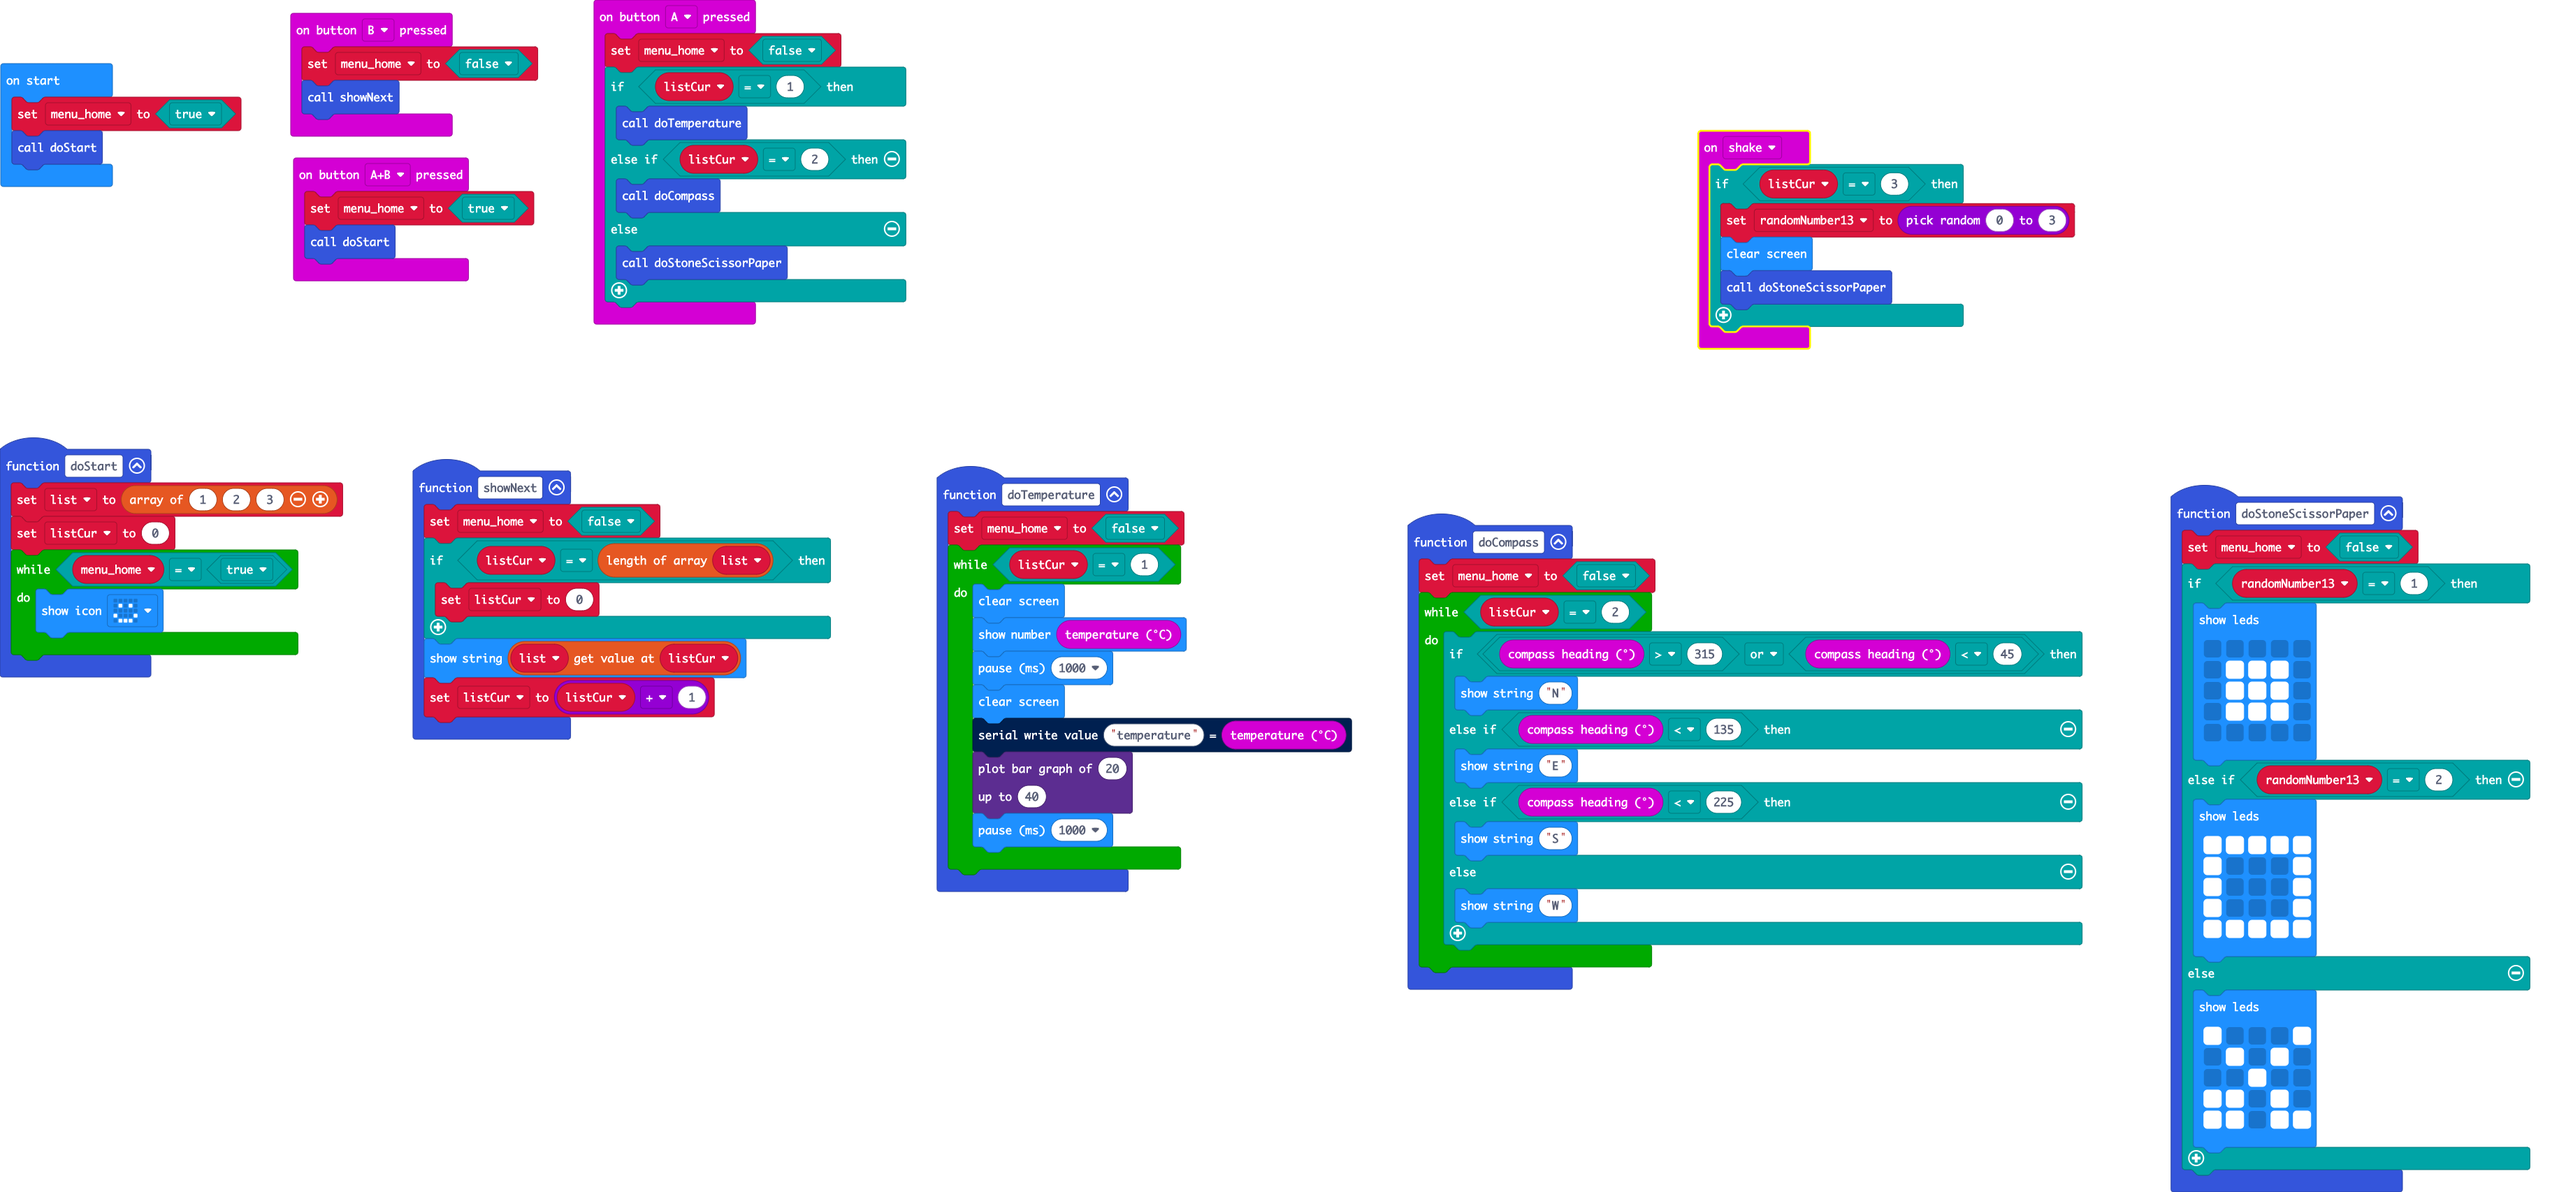
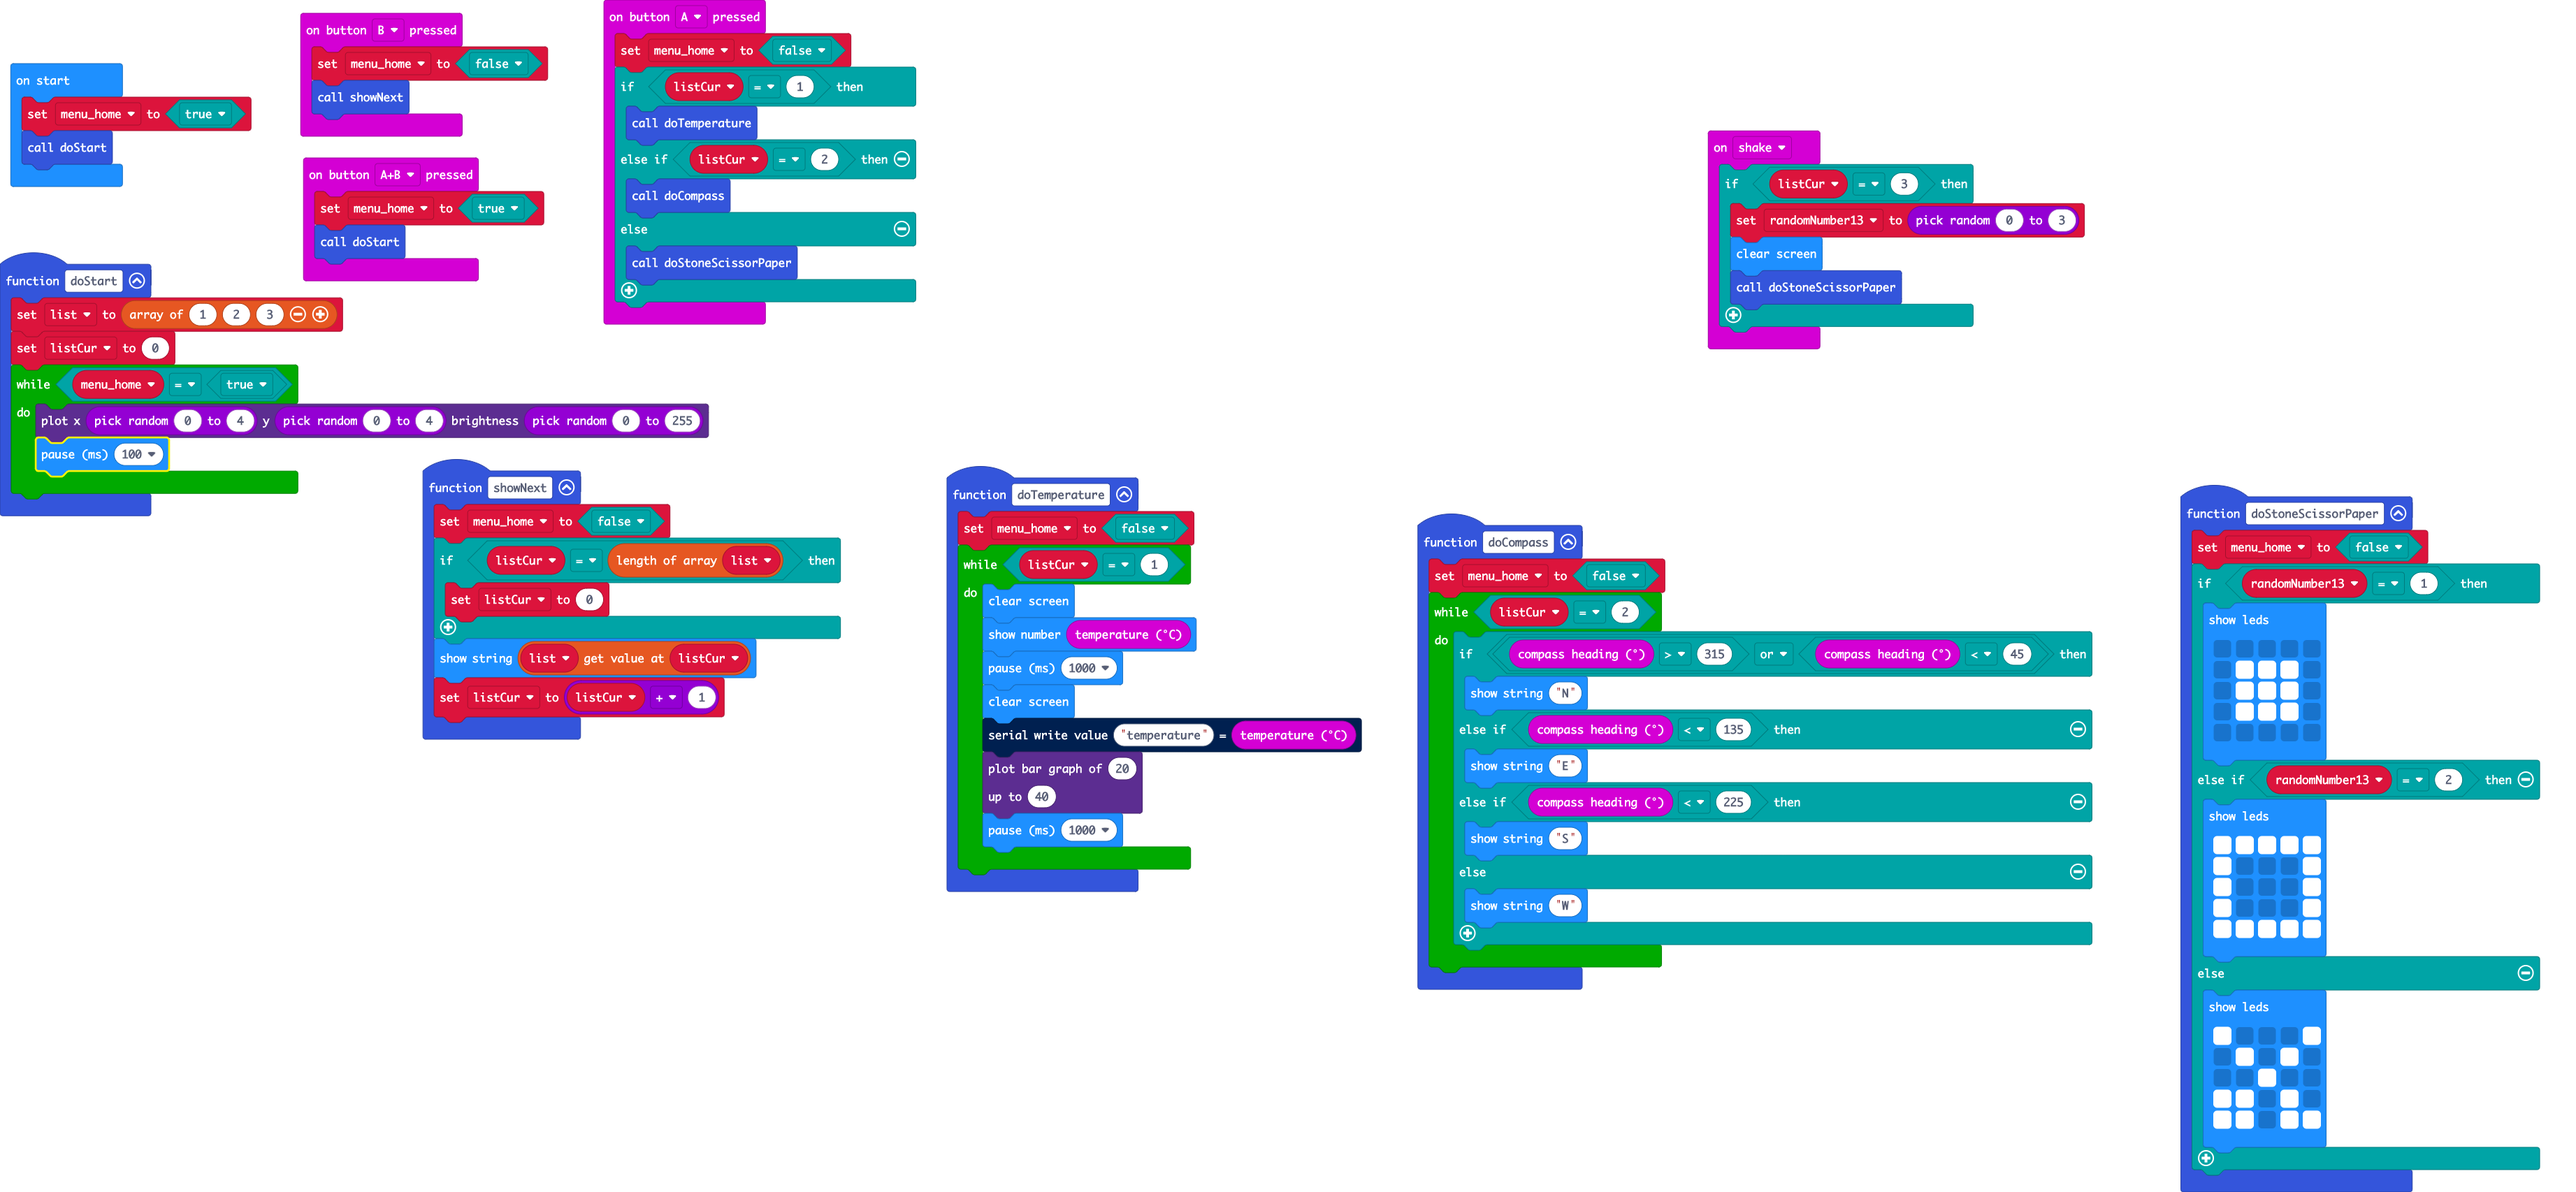
draw home screen

diff --git a/main.ts b/main.ts
@@ -2,7 +2,8 @@ function doStart () {
     list = [1, 2, 3]
     listCur = 0
     while (menu_home == true) {
-        basic.showIcon(IconNames.Happy)
+        led.plotBrightness(randint(0, 4), randint(0, 4), randint(0, 255))
+        basic.pause(100)
     }
 }
 function showNext () {
